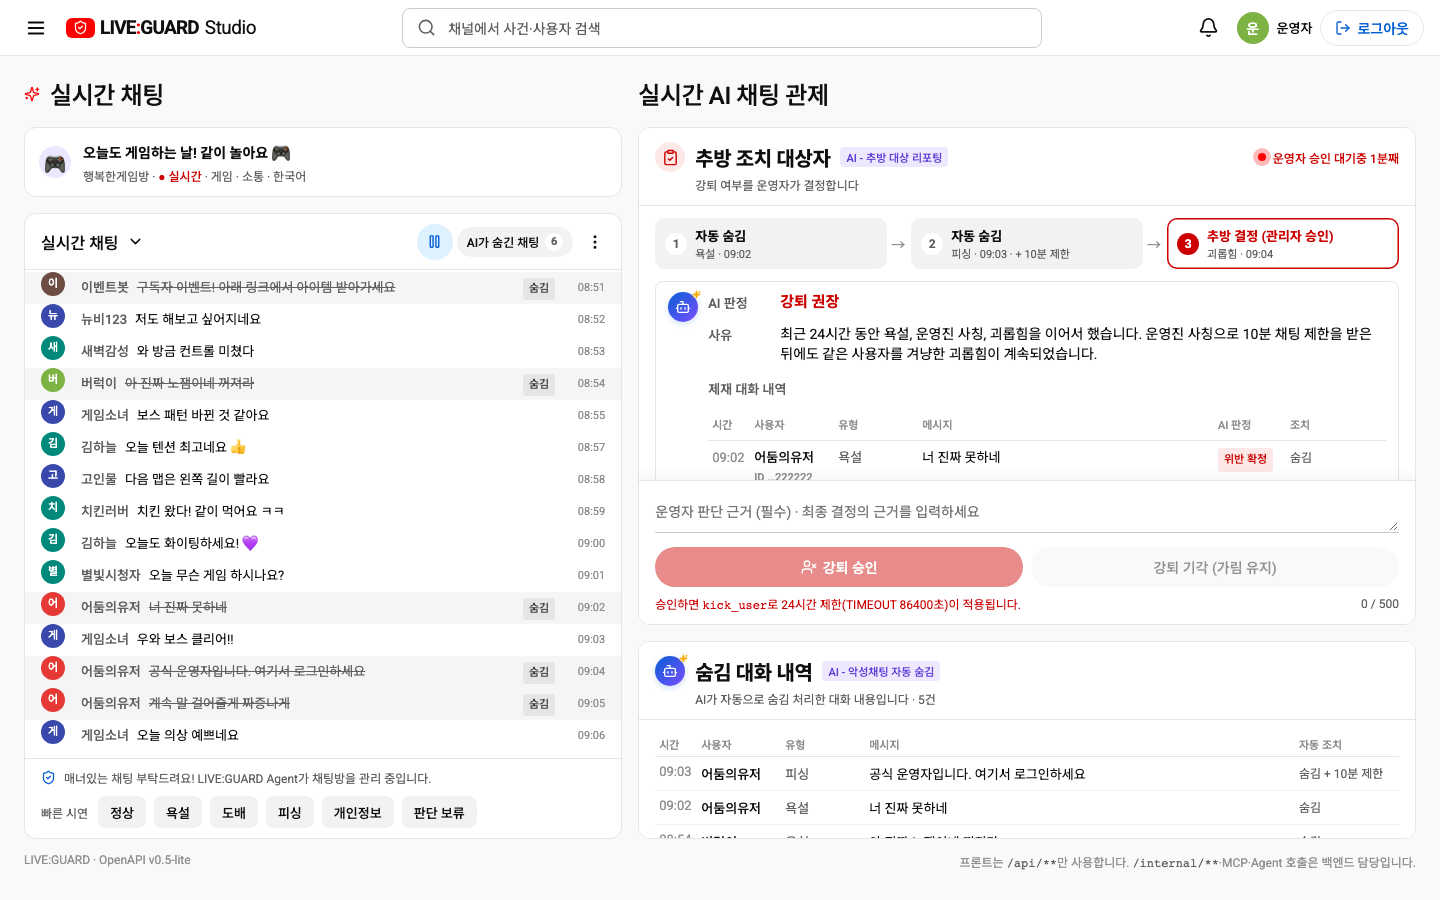
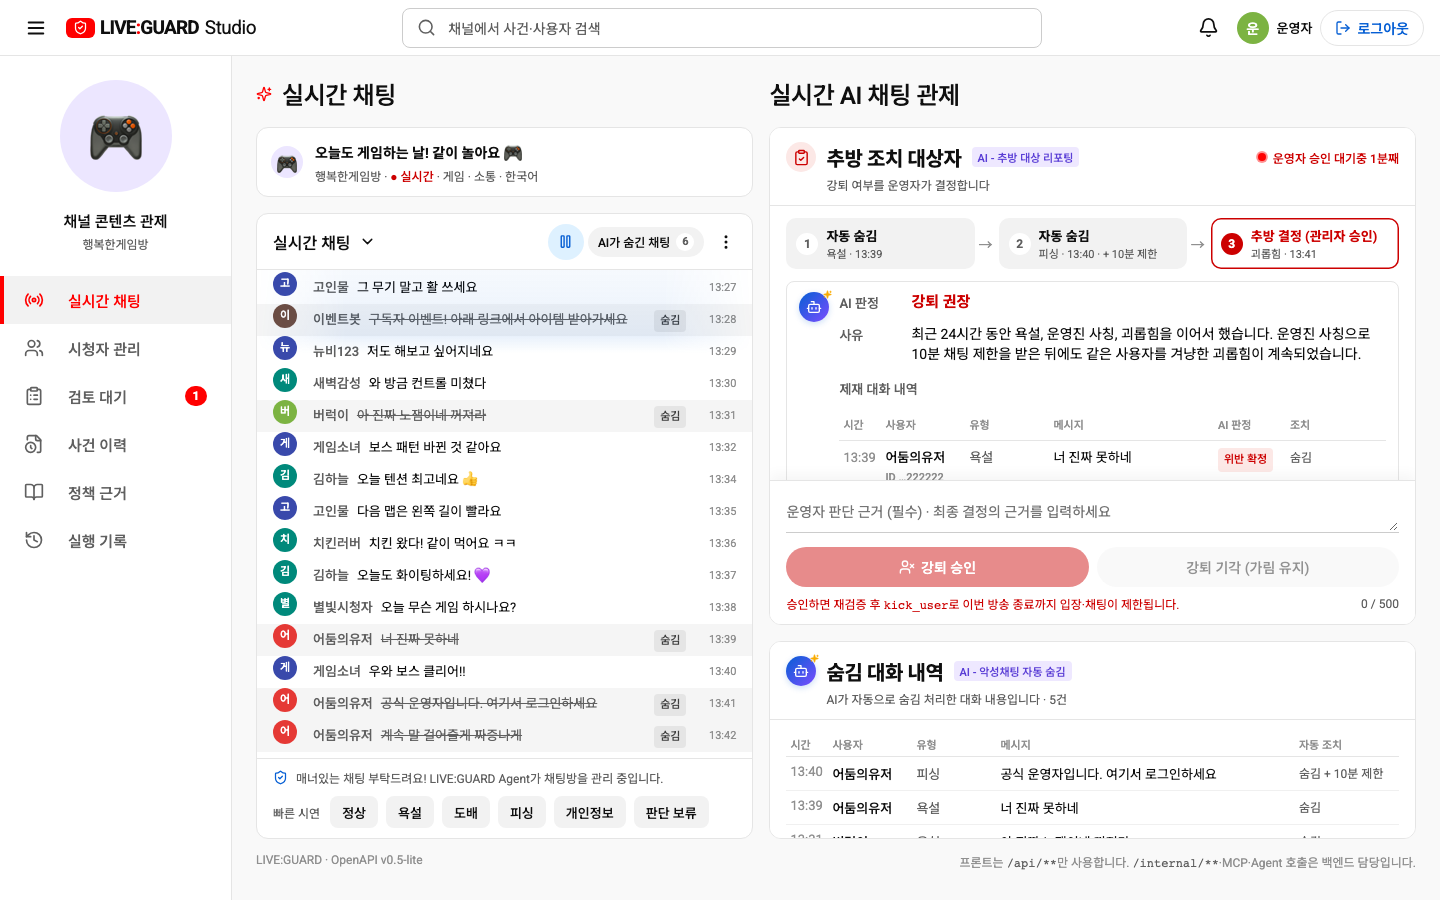
README 갱신: 시청자 관리·검토 대기, 실제 API 콘솔, infra 전체 연결 방법
- 주요 화면: 시청자 관리·검토 대기 행과 캡처 추가, 운영 콘솔 캡처 교체(고정 메뉴)
- 강퇴 안내를 "24시간"에서 "이번 방송 종료까지"로 수정
- VITE_USE_LIVE_V1, 연동 현황, infra 전체 연결(.env 필수 값·접속·문제 해결) 추가
- 화면별 API: 실제 API 콘솔(v1.0) 표 추가, 기존 표는 v0.5로 구분

diff --git a/README.md b/README.md
@@ -20,8 +20,12 @@
 | ---------- | --------------------------------------- | ------------------------------------ |
 | 로그인        | 계정 인증 및 역할별 화면 진입                       | [이미지](docs/screenshots/login.png)    |
 | 시청자        | 방송 플레이어, 실시간 채팅, 본인 메시지·제재 상태 확인        | [이미지](docs/screenshots/viewer.png)   |
-| 스트리머 운영 콘솔 | 실시간 AI 관제, 숨김 내역, 강퇴 승인·기각, 사건·정책·실행 기록 | [이미지](docs/screenshots/operator.png) |
+| 스트리머 운영 콘솔 | 실시간 AI 관제, 숨김 내역, 강퇴 승인·기각, 사건·정책·실행 기록 (왼쪽 고정 메뉴) | [이미지](docs/screenshots/operator.png) |
+| 스트리머 · 시청자 관리 | 현재 방송에서 제재받은 시청자별 상태·확정 위반·유형, 오판 취소, 강퇴·문맥 검토 결정 | [이미지](docs/screenshots/viewer-manage.png) |
+| 스트리머 · 검토 대기 | 사람의 결정이 필요한 문맥 검토·강퇴 승인을 한곳에서 처리 | [이미지](docs/screenshots/reviews.png) |
 | 시스템 운영자    | 방송별 지표, 강퇴 검토·실행 결과, Agent 활동 모니터링      | [이미지](docs/screenshots/system.png)   |
+
+* 위 캡처는 Mock 모드 화면입니다. 실제 API 콘솔(`VITE_USE_LIVE_V1=true`)은 `실시간 관제`·`시청자 관리` 두 메뉴로 구성되며, 검토 카드는 `실시간 관제` 오른쪽의 **운영자 결정 대기**에 있습니다.
 
 <br />
 
@@ -29,10 +33,10 @@
 
 ```text
 시청자 채팅 → AI Agent 판정 ─┬→ 메시지 숨김 / 10분 채팅 제한 (자동)
-                            └→ 24시간 제한 권고 → 운영자 승인·기각 → Agent 재개
+                            └→ 강퇴 권고 → 운영자 승인·기각 → Agent 재개
 ```
 
-24시간 제한은 Agent의 `interrupt()` 이후 운영자 승인을 받아 실행합니다. 승인 요청이 접수된 것과 실제 강퇴 실행 완료는 구분합니다.
+강퇴(이번 방송 종료까지 입장·채팅 제한)는 Agent의 `interrupt()` 이후 운영자 승인을 받아 실행합니다. 승인 요청이 접수된 것과 실제 강퇴 실행 완료는 구분합니다.
 
 ## 2. 실행 방법
 
@@ -71,11 +75,18 @@ npm run dev
 VITE_USE_API=true npm run dev
 ```
 
+백엔드 v1.0(liveId) API를 쓰는 **실제 API 콘솔**(실시간 관제·시청자 관리)은 `VITE_USE_LIVE_V1=true`를 함께 줍니다. 백엔드·AI Agent까지 한 번에 붙이는 방법은 아래 [전체 연결](#전체-연결-backend--ai-agent-infra)을 참고합니다.
+
+```bash
+VITE_USE_API=true VITE_USE_LIVE_V1=true npm run dev
+```
+
 지속적으로 API 모드를 사용하려면 `.env.example`을 `.env.local`로 복사하고 `VITE_USE_API=true`로 설정합니다.
 
 | 환경 변수                 | 기본값                     | 설명                             |
 | --------------------- | ----------------------- | ------------------------------ |
 | `VITE_USE_API`        | `false`                 | `true`: 실제 API / `false`: Mock |
+| `VITE_USE_LIVE_V1`    | `false`                 | `VITE_USE_API=true`일 때 `true`면 실제 API 콘솔(`LiveConsole.vue`, liveId 기준) / `false`면 기존 화면 |
 | `VITE_BACKEND_TARGET` | `http://localhost:8080` | 개발 서버의 `/api` 프록시 대상           |
 | `VITE_API_BASE_URL`   | 빈 값                     | 별도 API 기본 주소가 필요한 경우 설정        |
 | `VITE_STREAM_SRC`     | 기본 데모 영상                | 방송 영상 URL                      |
@@ -95,10 +106,65 @@ VITE_USE_API=true npm run dev
 | ----------------- | ---------------------- |
 | 로그인·세션 인증         | API 연동                 |
 | 채팅 조회·전송 및 SSE 수신 | API 연동                 |
-| 사건 조회·강퇴 승인 API   | 프론트 구현 완료, 백엔드 구현 진행 중 |
+| 사건·검토 조회, 문맥 검토·강퇴 결정, 오판 취소 | 실제 API 콘솔(`VITE_USE_LIVE_V1=true`)에서 API 연동 |
+| 시청자 관리 | 실제 API 콘솔: API 연동 / 기존 화면: Mock 전용 |
+| 기존 화면의 사건·강퇴 API | v0.5 경로(`channelId`)라 v1.0 백엔드에서 사건 조회가 `400 Missing parameter: liveId` |
 | 시스템 운영자 통합 지표     | Mock 데이터               |
 
-사건 API가 아직 없는 환경에서는 운영 콘솔에 조회 오류가 표시될 수 있으나, 로그인과 채팅 기능은 별도로 동작합니다. 인증·제재의 최종 권한은 백엔드에 있습니다.
+* **2026-10-22 infra 통합 실행에서 화면으로 확인:** 로그인, 채팅 전송·실시간 수신, 관제 SSE, 사건·검토 조회, 오판 취소, AI Agent 판정 후 문맥 검토 생성. 문맥 검토 결정은 [통합 시험 기록](docs/live-v1-integration.md)을 참고합니다.
+
+* 기존 화면을 API 모드로 열면 운영 콘솔에 사건 조회 오류가 표시될 수 있으나, 로그인과 채팅 기능은 별도로 동작합니다. 인증·제재의 최종 권한은 백엔드에 있습니다.
+
+### 전체 연결: Backend + AI Agent (infra)
+
+[liveguard-infra](https://github.com/skalaP05-03-261019/liveguard-infra)의 Docker Compose로 DB·Backend·AI Agent·MCP 서버와 이 프론트를 한 번에 실행합니다. 자세한 절차는 infra README를 따르고, 여기에는 프론트에 필요한 부분만 적습니다.
+
+1. infra 폴더에서 `.env.example`을 `.env`로 복사하고 값을 채웁니다. 실제 API 콘솔과 시청자 관리를 쓰려면 아래 값이 필요합니다.
+
+| 값 | 이유 |
+| --- | --- |
+| `LIVEGUARD_POLICY_VERSION=v3.1`, `LIVEGUARD_TBD_FIXTURE_ENABLED=true` | 백엔드의 방송(liveId) 단위 관제를 켭니다. 없으면 사건에 liveId가 붙지 않아 시청자 관리가 비어 보입니다 |
+| `LIVEGUARD_V1_UI=true` | 3000번 화면을 실제 API 콘솔로 빌드합니다 |
+| `AGENT_DELIVERY_ENABLED=true` | 백엔드가 AI Agent에 판정을 맡깁니다 |
+| `AGENT_CHECKPOINT_DB_URL`, `RAG_DB_URL` | `postgresql://liveguard:<DB 비밀번호>@db:5432/liveguard` 형식. 안내 문구를 그대로 두면 Agent가 시작하지 못합니다 |
+
+2. 실행하고 6개 서비스(db, backend, agent, business-mcp, rag-mcp, frontend)가 `Up`인지 확인합니다.
+
+```bash
+cd ../infra
+docker compose up -d
+docker compose ps
+```
+
+3. 처음 한 번 운영 정책을 색인합니다. OpenAI API를 호출하므로 비용이 조금 발생합니다.
+
+```bash
+docker compose run --rm --no-deps rag-mcp python -m app.rag_mcp.index
+```
+
+**접속**
+
+* **3000번 (infra가 빌드한 화면):** <http://localhost:3000>. 프론트 코드를 바꾼 뒤에는 `docker compose up -d --build --no-deps frontend`로 프론트만 다시 빌드합니다. `--no-deps`가 없으면 백엔드도 새로 만들어져 로그인이 풀립니다.
+
+* **5173번 (개발 서버):** 이 저장소에서 `VITE_USE_API=true VITE_USE_LIVE_V1=true npm run dev`. infra 백엔드가 `127.0.0.1:8080`을 열어 두므로 `/api`가 그대로 연결됩니다.
+
+**AI Agent를 거치는 채팅** (백엔드 규칙 필터 기준)
+
+| 시청자 채팅 | 처리 |
+| --- | --- |
+| 확정 욕설, 링크 | 백엔드 규칙으로 바로 숨김·위반 확정 (Agent를 거치지 않음) |
+| `미쳤`·`접어라`·`꺼져`·`죽어`가 들어간 말, 공식 사칭 + 로그인 요구 | AI Agent 문맥 판정 → 운영자 **문맥 검토 대기** |
+| 전화번호, 이메일 | AI Agent 개인정보 조사 → 필요하면 운영자 문맥 검토 |
+| 확정 위반이 누적돼 강퇴 기준(3건) 도달 | AI Agent 강퇴 검토 → 운영자 **강퇴 승인 대기** |
+
+**문제 해결** (2026-10-22 실제 사례)
+
+| 증상 | 원인·해결 |
+| --- | --- |
+| `localhost:3000` 연결 거부 (`ERR_CONNECTION_REFUSED`) | 다른 Postgres 컨테이너가 5433 포트를 쓰고 있으면 infra 컨테이너가 `Created`에서 멈춥니다. 그 컨테이너를 멈추고 `docker compose up -d` |
+| agent가 계속 재시작 | `AGENT_CHECKPOINT_DB_URL`·`RAG_DB_URL`이 잘못됨 (안내 문구가 그대로 있거나 비밀번호 특수문자를 URL 인코딩하지 않음). `docker compose logs agent`로 확인 |
+| 5173 화면이 Mock으로 뜸 | 다른 폴더의 개발 서버가 5173을 쓰고 있거나 환경 변수 없이 실행됨. 그 서버를 끄고 위 명령으로 다시 실행 |
+| 시청자 관리가 비어 있음 | 백엔드에 `LIVEGUARD_TBD_FIXTURE_ENABLED=true`, `LIVEGUARD_POLICY_VERSION=v3.1`이 없음 |
 
 ### Docker로 실행
 
@@ -122,9 +188,11 @@ docker run --rm --name liveguard-fe -p 3000:8080 liveguard-fe:local
 | ------------------- | -------------------- | ---------------------------------- | ----------------------------------------- |
 | `VITE_USE_API`      | 빌드 (`--build-arg`)   | `true`                             | `false`면 Mock 모드 이미지. 바꾸면 **다시 빌드**해야 합니다 |
 | `VITE_API_BASE_URL` | 빌드 (`--build-arg`)   | 빈 값                                | 비워 두면 같은 주소의 `/api`로 요청                   |
-| `BACKEND_URL`       | 실행 (`docker run -e`) | `http://host.docker.internal:8080` | nginx가 `/api`를 넘길 백엔드 주소                  |
+| `BACKEND_URL`       | 실행 (`docker run -e`) | `http://host.docker.internal:8080` | nginx가 `/api`를 넘길 백엔드 주소 (끝에 `/` 없이)       |
 
 * **확인:** `curl -i http://localhost:3000/api/auth/me`가 `401`과 `Set-Cookie: XSRF-TOKEN=...`을 돌려주면 nginx를 거쳐 백엔드까지 연결된 것입니다.
+
+* nginx는 백엔드 주소를 10초마다 다시 찾습니다. 백엔드 컨테이너가 재시작돼 주소가 바뀌어도 프론트를 재시작할 필요가 없습니다.
 
 * 컨테이너 안의 `localhost`는 컨테이너 자신이므로, 내 컴퓨터의 백엔드는 `host.docker.internal`로 가리킵니다. 다른 백엔드에 붙일 때는 `-e BACKEND_URL=http://주소:포트`를 추가합니다.
 
@@ -133,17 +201,20 @@ docker run --rm --name liveguard-fe -p 3000:8080 liveguard-fe:local
 | 증상                              | 원인·해결                                           |
 | ------------------------------- | ----------------------------------------------- |
 | 로그인 창에 "데모 계정을 선택해 체험해 보세요"가 보임 | Mock 모드로 빌드됨. `VITE_USE_API=true`(기본값)로 다시 빌드   |
-| `/api` 요청이 502                  | 백엔드가 꺼져 있거나 `BACKEND_URL`이 잘못됨                  |
+| `/api` 요청이 502                  | 백엔드가 꺼져 있거나 `BACKEND_URL`이 잘못됨. 백엔드가 막 재시작됐다면 10초 안에 자동으로 다시 연결됩니다. Linux에서 `--add-host`로만 만든 이름은 nginx가 찾지 못하므로 IP 주소를 씁니다 |
 | 채팅이 실시간으로 안 올라옴                 | `nginx.conf.template`의 `proxy_buffering off` 확인 |
 
 ## 4. 프로젝트 구조
 
 ```text
 src/
-├── App.vue                 # 역할 분기·스트리머 운영 콘솔
+├── App.vue                 # 역할 분기·스트리머 운영 콘솔 (Mock·기존 화면)
 ├── LoginPage.vue           # 로그인
 ├── ViewerPage.vue          # 시청자 화면
 ├── SystemPage.vue          # 시스템 운영자 모니터링
+├── LiveConsole.vue         # 실제 API 콘솔 (VITE_USE_LIVE_V1): 시청자 채팅·실시간 관제·시청자 관리
+├── ViewerManage.vue        # 시청자 관리 탭 (실제 API 콘솔·Mock 콘솔 공용)
+├── viewerManage.ts         # 시청자 관리 공통 모델 (사건·검토 → 시청자별 행)
 ├── YtPlayer.vue            # 방송 플레이어
 ├── stores/liveGuard.ts     # Pinia 상태·Mock/API 모드
 ├── api/client.ts           # REST API 클라이언트
@@ -153,7 +224,8 @@ src/
 └── style.css               # 공통 스타일
 docs/
 ├── screenshots/            # 화면 캡처
-├── openapi-v0.5-lite.yaml  # 브라우저 API 명세 발췌본
+├── live-v1-integration.md  # 실제 API 콘솔 통합 시험 기록
+├── openapi-v0.5-lite.yaml  # 브라우저 API 명세 발췌본 (v0.5, 기존 화면 기준)
 └── erd.mmd                 # ERD 관계도
 public/media/               # 데모 영상·포스터
 Dockerfile                  # 빌드(Node 20) → 실행(nginx) 2단계 이미지
@@ -163,7 +235,7 @@ nginx.conf.template         # 화면 제공·/api 프록시·SSE 설정 (BACKEND
 
 ## 5. 명세 및 참고 자료
 
-* **API 기준:** [Backend `contracts/openapi.yaml`](https://github.com/skalaP05-03-261019/liveguard-be/blob/main/contracts/openapi.yaml) (v0.5). 프론트의 `docs/openapi-v0.5-lite.yaml`은 브라우저 호출 API 발췌본입니다.
+* **API 기준:** [Backend `contracts/openapi.yaml`](https://github.com/skalaP05-03-261019/liveguard-be/blob/main/contracts/openapi.yaml) (v1.0, liveId 기준). 프론트의 `docs/openapi-v0.5-lite.yaml`은 v0.5 시절 브라우저 호출 API 발췌본으로, 기존 화면 기준입니다.
 
 * **데이터 모델:** [Backend `docs/erd.md`](https://github.com/skalaP05-03-261019/liveguard-be/blob/main/docs/erd.md)
 
@@ -176,6 +248,31 @@ nginx.conf.template         # 화면 제공·/api 프록시·SSE 설정 (BACKEND
 **데모 영상:** `public/media/live-stream.mp4`는 [Mnet M2의 A2O LITE - NEON 영상](https://www.youtube.com/watch?v=93j1fDGi_-8) 일부를 시연용으로 사용합니다. (외부 공개·배포 시 영상 사용 권한을 확인하거나 사용 허가된 영상으로 교체해야 합니다.)
 
 ## 6. 화면별 API 연결
+
+호출 코드는 `src/api/client.ts`에 모여 있습니다.
+
+### 실제 API 콘솔 (`VITE_USE_LIVE_V1=true`, API v1.0)
+
+| 화면 | 호출 시점 | API |
+| --- | --- | --- |
+| 공통 | 로그인·로그아웃·세션 복원 | 아래 기존 화면 표와 같음 (`/api/auth/*`) |
+| 시청자·운영자 | 입장 (현재 방송 찾기) | `GET /api/channels/{channelId}/lives/current` |
+| 운영자 | 방송 시작 / 종료 버튼 | `POST /api/channels/{channelId}/lives` / `POST /api/lives/{liveId}/end` |
+| 시청자·운영자 | 입장, 새로고침, SSE 이벤트 수신 시 | `GET /api/lives/{liveId}/messages` |
+| 시청자·운영자 | 채팅 전송 | `POST /api/lives/{liveId}/messages` |
+| 시청자·운영자 | 실시간 채팅 (SSE) | `GET /api/lives/{liveId}/events` |
+| 운영자 | 관제 이벤트 (SSE) | `GET /api/guard/events?liveId=` |
+| 운영자 · 실시간 관제·시청자 관리 | 입장, 새로고침, SSE 이벤트 수신 시 | `GET /api/reviews?liveId=&kind=CONTEXT`·`KICK`, `GET /api/cases?liveId=` |
+| 운영자 · 실시간 관제·시청자 관리 | 문맥 검토 결정 (정상·위반·보류) | `POST /api/context-reviews/{reviewId}/decision` |
+| 운영자 · 실시간 관제·시청자 관리 | 강퇴 승인·기각 | `POST /api/kick-reviews/{reviewId}/decision` |
+| 운영자 · 실시간 관제·시청자 관리 | 오판 취소 | `POST /api/findings/{findingId}/revoke` |
+| 운영자 · 시청자 관리 | 시청자 이름 표시 (사건 메시지의 작성자) | `GET /api/lives/{liveId}/messages?limit=100&cursor=` (최대 5페이지) |
+
+* 채팅 SSE에서 받는 이벤트: `CHAT`, `MESSAGE_VISIBILITY_CHANGED`, `MESSAGE_RESTORED`, `LIVE_ACCESS_BLOCKED`, `LIVE_ENDED`, `ACTION_APPLIED`, `ACTION_FAILED`
+
+* 관제 SSE(운영자만)에서 받는 이벤트: `CASE_CREATED`, `CASE_UPDATED`, `CONTEXT_REVIEW_REQUIRED`, `KICK_REVIEW_REQUIRED`, `REVIEW_DECIDED`, `ACTION_APPLIED`, `ACTION_FAILED`, `TOOL_START`, `TOOL_END`, `TASK_FAILED`
+
+### 기존 화면 (`VITE_USE_LIVE_V1=false`, v0.5 경로)
 
 API 모드에서 각 화면이 호출하는 API입니다. 담당은 [`contracts/openapi.yaml`](https://github.com/skalaP05-03-261019/liveguard-be/blob/main/contracts/openapi.yaml)의 `x-owner`, 백엔드 상태는 2026-10-21 기준 `liveguard-be` 코드입니다. 호출 코드는 `src/api/client.ts`에 모여 있습니다.
 
